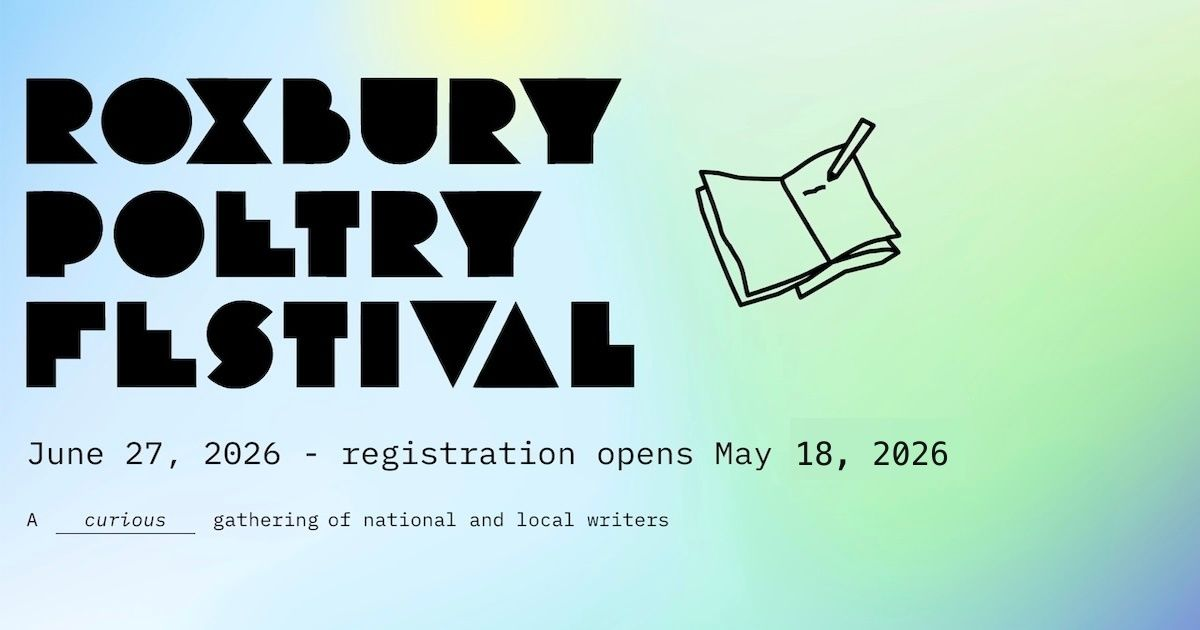
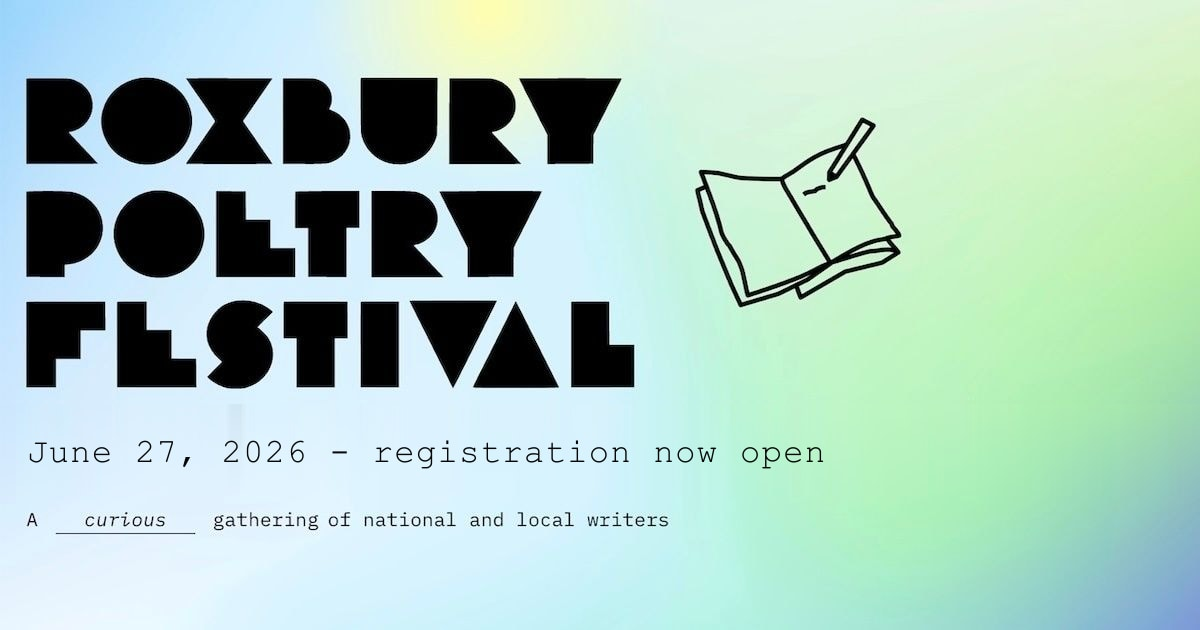
Refine footer layout and update metadata

Changed region(s): [[0.0308, 0.6937, 0.8017, 0.754]]

diff --git a/components/Footer.js b/components/Footer.js
@@ -6,57 +6,97 @@ const navLinks = [
   { href: '/schedule', label: 'Schedule' },
   { href: '/speakers', label: 'Speakers' },
   { href: '/slam', label: 'Slam' },
+]
+
+const pastEventLinks = [
   { href: '/2021', label: 'RPF 2021' },
   { href: '/2023', label: 'RPF 2023' },
 ]
 
 export default function Footer() {
   return (
-    <footer className="footer-top pb-10 lg:flex mt-24 gap-10 items-start justify-between max-w-7xl mx-auto px-6 relative text-base md:text-lg z-30">
-      <div className="border-t border-black lg:border-none mb-8 pt-6 lg:mb-0 lg:pt-8 lg:whitespace-nowrap">
-        © 2026 Roxbury Poetry Festival
+    <footer className="footer-top pb-10 mt-24 max-w-7xl mx-auto px-6 relative z-30">
+      <div className="border-t border-black md:border-none pt-8">
+        <div className="grid gap-10 lg:grid-cols-[minmax(0,1fr)_minmax(0,1.15fr)] lg:gap-20">
+          <div>
+            <Link href="/" aria-label="Roxbury Poetry Festival home">
+              <svg className="fill-current w-full max-w-md" height="30" width="615">
+                <use xlinkHref="#icon-logo-wide" />
+              </svg>
+            </Link>
+            <p className="font-mono mt-4 text-sm uppercase">June 27, 2026</p>
+          </div>
+
+          <div className="grid gap-8 sm:grid-cols-3">
+            <nav aria-label="Footer navigation">
+              <p className="font-mono mb-4 text-sm uppercase">
+                Explore
+              </p>
+              <ul className="grid gap-3 text-base md:text-lg">
+                {navLinks.map((link) => (
+                  <li key={link.href}>
+                    <Link href={link.href} className="underline-offset-4 hover:underline">
+                      {link.label}
+                    </Link>
+                  </li>
+                ))}
+              </ul>
+            </nav>
+
+            <nav aria-label="Past events">
+              <p className="font-mono mb-4 text-sm uppercase">
+                Past Events
+              </p>
+              <ul className="grid gap-3 text-base md:text-lg">
+                {pastEventLinks.map((link) => (
+                  <li key={link.href}>
+                    <Link href={link.href} className="underline-offset-4 hover:underline">
+                      {link.label}
+                    </Link>
+                  </li>
+                ))}
+              </ul>
+            </nav>
+
+            <div>
+              <p className="font-mono mb-4 text-sm uppercase">
+                Connect
+              </p>
+              <ul className="grid gap-3 text-base md:text-lg">
+                <li>
+                  <a
+                    className="underline-offset-4 hover:underline"
+                    href={volunteerUrl}
+                    target="_blank"
+                    rel="noreferrer noopener"
+                  >
+                    Volunteer
+                  </a>
+                </li>
+                <li>
+                  <a
+                    className="underline-offset-4 hover:underline"
+                    href="mailto:[email redacted]"
+                    target="_blank"
+                  >
+                    Contact
+                  </a>
+                </li>
+              </ul>
+            </div>
+          </div>
+        </div>
+
+        <div className="border-t border-black mt-10 pt-5 text-sm leading-relaxed md:flex md:items-start md:justify-between md:gap-10">
+          <p className="max-w-3xl">
+            Curated by Porsha Olayiwola with sponsorships from The Mayor’s
+            Office of Arts &amp; Culture, Words as Worlds, and Northeastern.
+          </p>
+          <p className="mt-4 md:mt-0 md:whitespace-nowrap">
+            © 2026 Roxbury Poetry Festival
+          </p>
+        </div>
       </div>
-      <nav aria-label="Footer navigation" className="lg:flex-1 lg:pt-8">
-        <ul className="flex flex-col gap-5 lg:flex-row lg:flex-wrap lg:gap-x-8 lg:gap-y-4 lg:justify-end">
-          {navLinks.map((link) => (
-            <li key={link.href}>
-              <Link href={link.href} className="underline-offset-4 hover:underline whitespace-nowrap">
-                {link.label}
-              </Link>
-            </li>
-          ))}
-        {/* <Link href="/about" className="speakers-grid mb-6 pt-6 lg:mb-0 lg:ml-10 lg:pt-8 xl:ml-16">
-        About
-        </Link> */}
-        {/*}
-        <a
-          className="speakers-grid mb-6 pt-6 lg:mb-0 lg:ml-10 lg:pt-8 xl:ml-16"
-          href="/speakers-book.pdf"
-          target="_blank"
-        >
-          Books
-        </a> */}
-          <li>
-            <a
-              className="underline-offset-4 hover:underline whitespace-nowrap"
-              href={volunteerUrl}
-              target="_blank"
-              rel="noreferrer noopener"
-            >
-              Volunteer
-            </a>
-          </li>
-          <li>
-            <a
-              className="underline-offset-4 hover:underline whitespace-nowrap"
-              href="mailto:[email redacted]"
-              target="_blank"
-            >
-              Contact
-            </a>
-          </li>
-        </ul>
-      </nav>
     </footer>
   )
 }

diff --git a/components/Layout.js b/components/Layout.js
@@ -5,41 +5,43 @@ import Footer from '../components/Footer'
 import Banner from '../components/Banner'
 
 export default function Layout({ children, showBanner = false }) {
+  const siteTitle = 'Roxbury Poetry Festival'
+  const siteDescription =
+    'Registration is now open for the Roxbury Poetry Festival on June 27, 2026, a vital gathering of national and local writers in Roxbury, MA.'
+  const siteUrl = 'https://www.roxburypoetryfestival.com/'
+  const socialImage = `${siteUrl}social.jpg`
+
   return (
     <>
       <Head>
-        <title>Roxbury Poetry Festival</title>
+        <title>{siteTitle}</title>
         <meta name="viewport" content="width=device-width, initial-scale=1" />
         <meta charSet="utf-8" />
-        <meta
-          name="Description"
-          content="The Roxbury Poetry Festival is a biennial event centering poetry in Roxbury, MA. The inaugural festival is happening virtually with the exception of two evening events. The festival features several award-winning writers, panelists, and curators, and centers a keynote address from 2020 Pulitzer Prize winning poet, Jericho Brown. The day-long event culminates with a Publisher’s Poetry Slam sponsored by Button Poetry that yields a book contract for a local writer and a “Beast The Beat” concert battle highlighting local hip hop artist. The festival is free and open to the public."
-        />
+        <meta name="description" content={siteDescription} />
         <meta name="twitter:card" content="summary_large_image" key="twcard" />
+        <meta name="twitter:title" content={siteTitle} />
+        <meta name="twitter:description" content={siteDescription} />
+        <meta name="twitter:image" content={socialImage} />
         <meta
           property="og:url"
-          content="https://www.roxburypoetryfestival.com/"
+          content={siteUrl}
           key="ogurl"
         />
-        <meta
-          property="og:image"
-          content="https://www.roxburypoetryfestival.com/social.jpg"
-          key="ogimage"
-        />
+        <meta property="og:type" content="website" />
+        <meta property="og:image" content={socialImage} key="ogimage" />
+        <meta property="og:image:width" content="1200" />
+        <meta property="og:image:height" content="630" />
+        <meta property="og:image:alt" content={siteDescription} />
 
         <meta
           property="og:site_name"
-          content="Roxbury Poetry Festival"
+          content={siteTitle}
           key="ogsitename"
         />
-        <meta
-          property="og:title"
-          content="Roxbury Poetry Festival"
-          key="ogtitle"
-        />
+        <meta property="og:title" content={siteTitle} key="ogtitle" />
         <meta
           property="og:description"
-          content="A vital gathering of national and local writers."
+          content={siteDescription}
           key="ogdesc"
         />
         <script

diff --git a/pages/schedule.js b/pages/schedule.js
@@ -39,6 +39,7 @@ const speakerNamesBySlug = {
   'kayla-kennedy': 'Kayla Kennedy',
   'kes-maro': 'Kes Maro',
   'kwame-dawes': 'Kwame Dawes',
+  'lin-flores': 'Lin Flores',
   'maria-pinto': 'Maria Pinto',
   'matthew-e-henry': 'Matthew E. Henry',
   'mejdulene-bernard-shomali': 'Mejdulene Bernard Shomali',
@@ -189,6 +190,7 @@ const scheduleBlocks = [
           'perpetua-cannistraro',
           'jenny-molberg',
           'tatiana-johnson-boria',
+          'lin-flores',
         ],
         description:
           'A conversation about the world of publishing today, featuring editors, publishers, and literary artists. The panel will explore publishing, literary culture, and the pathways writers take to bring their work into the world.',
@@ -237,7 +239,7 @@ const scheduleBlocks = [
         title:
           'For the Culture: Journalism, Resistance, and the Practice of Black Joy',
         meta: 'Craft talk & workshop with Jeneé Osterheldt',
-        image: '/img/speakers/2026/Jeneé Osterheldt (1).JPEG',
+        image: '/img/speakers/2026/Jenee-Osterheldt.jpg',
         imageAlt: 'Jeneé Osterheldt',
         speakerSlugs: ['jenee-osterheldt'],
         description:

diff --git a/pages/slam.js b/pages/slam.js
@@ -30,7 +30,7 @@ export default function Slam() {
                 rel="noreferrer noopener"
                 target="_blank"
               >
-                <p>Sign up for the slam</p>
+                <p>Submit to compete</p>
                 <svg className="fill-current ml-2" height="12" width="15">
                   <use xlinkHref="#icon-rightarrow" />
                 </svg>

diff --git a/pages/speakers.js b/pages/speakers.js
@@ -452,7 +452,7 @@ const speakers = [
     name: 'Jeneé Osterheldt',
     slug: 'jenee-osterheldt',
     role: 'Culture columnist',
-    image: '/img/speakers/2026/Jeneé Osterheldt (1).JPEG',
+    image: '/img/speakers/2026/Jenee-Osterheldt.jpg',
     bio: (
       <>
         Jeneé Osterheldt is a culture columnist who covers identity and social